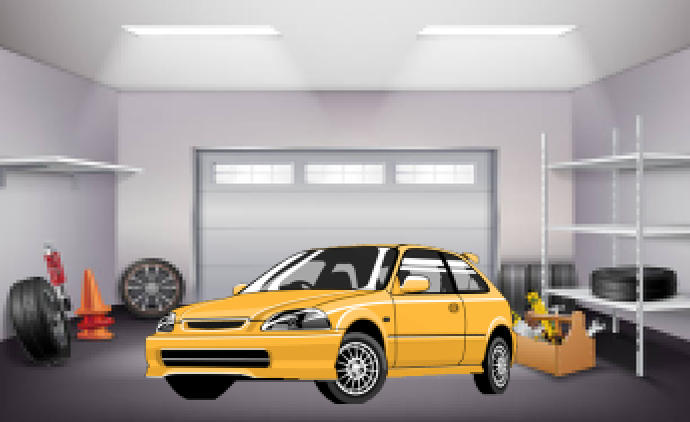
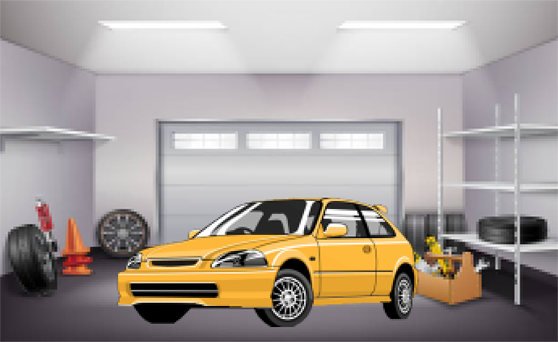
Repositioned garage_with_civic image

diff --git a/beginning.py b/beginning.py
@@ -6,15 +6,20 @@ def start_beginning(screen):
 
 	# Level name text settings
 	font = pygame.font.Font(None, 40)
-	beginning_text_surface = font.render("A New Beginning", True, (BLACK))
+	beginning_text_surface = font.render("A New Beginning", True, (CYAN))
 	beginning_text_rect = beginning_text_surface.get_rect(center=(screen.get_width() // 2, screen.get_height() // 20))
 
 
 	# Dialogue text settings
 	font = pygame.font.SysFont('Arial', 20)
-	beginning_dialogue_1 = "You're a newly-graduated college student. After years of boring schoolwork, watching clichéd car racing movies, and playing similarly-themed racing games, you decided it was time to go out and see if you could turn that dream into reality. As a graduation gift, your uncle gives you a gently-used 1997 Honda Civic Type-R."
+	beginning_dialogue_1 = "You're a newly-graduated college student. After years of boring schoolwork, watching clichéd car racing movies, and playing similarly-themed racing games, you decided it was time to go out and see if you could turn those car racing fantasies into reality. As a graduation gift, your uncle gives you a gently-used 1997 Honda Civic."
 
 
+	garage_with_civic = pygame.image.load("assets/garage_with_civic.png")
+	garage_with_civic_rect = garage_with_civic.get_rect(center=(screen.get_width() // 2, screen.get_height() // 1.6))
+
+
+	""" Beginning game loop """
 	running = True
 	while running:
 		for event in pygame.event.get():
@@ -24,12 +29,11 @@ def start_beginning(screen):
 
 		screen.fill((0, 0, 0))
 
-		garage_with_civic = pygame.image.load("assets/garage_with_civic.png")
-		screen.blit(garage_with_civic, (0, 0))
-
-		text_wrap(screen, beginning_dialogue_1, (screen.get_width() // 10, screen.get_height() // 7), font, BLACK, screen.get_width() - screen.get_width() // 5)
 		screen.blit(beginning_text_surface, beginning_text_rect)
+		screen.blit(garage_with_civic, garage_with_civic_rect.topleft)
 
+		text_wrap(screen, beginning_dialogue_1, (screen.get_width() // 10, screen.get_height() // 9), font, WHITE, screen.get_width() - screen.get_width() // 5)
+		
 		pygame.display.flip()
 
 	pygame.quit()
